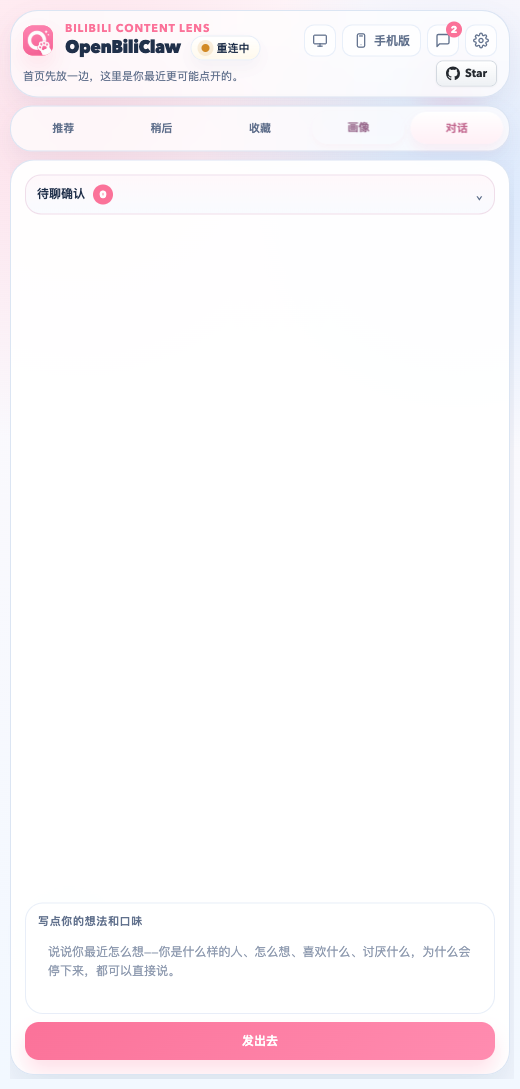
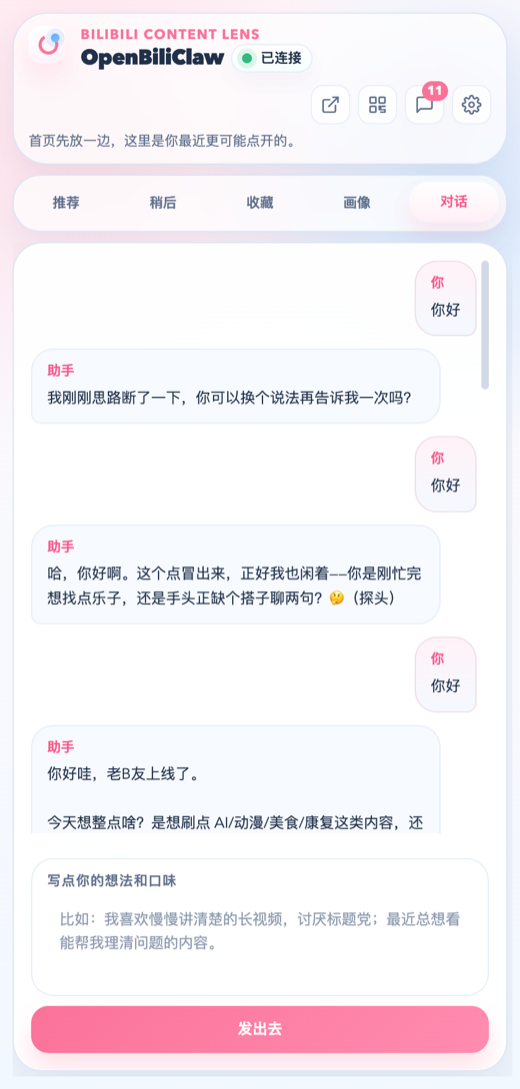
docs: restore real product screenshots

diff --git a/scripts/capture_chrome_webstore_ui.py b/scripts/capture_chrome_webstore_ui.py
@@ -8,8 +8,12 @@ import tempfile
 from pathlib import Path
 from urllib.parse import urlsplit
 
-from chrome_webstore_demo import DemoServer
 from playwright.sync_api import BrowserContext, Page, Route, sync_playwright
+
+if __package__:
+    from scripts.chrome_webstore_demo import DemoServer
+else:
+    from chrome_webstore_demo import DemoServer
 
 ROOT = Path(__file__).resolve().parents[1]
 EXTENSION_ROOT = ROOT / "extension"
@@ -322,6 +326,11 @@ def _capture_extension(
 
 
 def capture(output_dir: Path, docs_output_dir: Path | None = None) -> list[Path]:
+    if docs_output_dir is not None:
+        raise ValueError(
+            "demo fixture captures must not replace README or GitHub Pages screenshots; "
+            "capture those from a real running OpenBiliClaw profile"
+        )
     output_dir.mkdir(parents=True, exist_ok=True)
     expected_names = set(EXPECTED)
     for stale in output_dir.glob("*.png"):
@@ -352,21 +361,8 @@ def main() -> None:
         type=Path,
         default=ROOT / "docs/images/chrome-web-store/source",
     )
-    parser.add_argument(
-        "--refresh-docs",
-        action="store_true",
-        help="also refresh README and documentation screenshots under docs/images",
-    )
-    parser.add_argument(
-        "--docs-output-dir",
-        type=Path,
-        default=ROOT / "docs/images",
-    )
     args = parser.parse_args()
-    capture(
-        args.output_dir.resolve(),
-        args.docs_output_dir.resolve() if args.refresh_docs else None,
-    )
+    capture(args.output_dir.resolve())
 
 
 if __name__ == "__main__":

diff --git a/tests/test_chrome_webstore_demo.py b/tests/test_chrome_webstore_demo.py
@@ -2,12 +2,21 @@ from pathlib import Path
 from urllib.parse import quote, urlsplit
 from urllib.request import urlopen
 
+import pytest
 from PIL import Image
+from scripts.capture_chrome_webstore_ui import capture
 from scripts.chrome_webstore_demo import (
     DEMO_COVER_HOST,
     DemoServer,
     demo_payload,
 )
+
+
+def test_demo_capture_cannot_overwrite_real_documentation_screenshots(
+    tmp_path: Path,
+) -> None:
+    with pytest.raises(ValueError, match="must not replace README or GitHub Pages screenshots"):
+        capture(tmp_path / "store", tmp_path / "docs")
 
 
 def test_demo_recommendations_cover_multiple_platforms_without_private_data() -> None:

diff --git a/docs/changelog.md b/docs/changelog.md
@@ -6,6 +6,7 @@
 
 ## 未发布：连接与 HTTPS 部署（2026-08-01）
 
+- **README 与 GitHub Pages 首页恢复真实使用截图**：推荐、反馈、画像、对话、桌面端、移动端及首屏 Hero 全部换回真实运行记录，不再展示 Chrome Web Store 演示夹具生成的虚构内容；演示素材抓取脚本同时移除 `--refresh-docs` 入口，并拒绝把 demo capture 写入 `docs/images/`，避免再次覆盖真实截图。
 - **对话 turn 绑定安全性收口**：三端把卡片/疑惑作为 durable turn，通过 `reply_to_turn_id` 只声明目标；服务端在 user INSERT 前冻结 canonical context、digest 和 ordinary/detached mode，统一贯穿 prompt、event、学习与结算，A→B replacement 只会安全 stale-drop。新增只读 context preview、opaque evidence 过滤、独立长列表滚动、reply quote 与失败草稿保留；恢复长历史时首次进入会落到最新消息，后续实时刷新仍保留阅读位置。真实三端 E2E 补齐结算态收尾：卡片已确认/修正/拒绝/稍后时会静默清除旧 context，已知服务端错误优先显示中文；移动端固定回顶按钮按 360px 窄屏重新留距，不再与发送按钮相交。
 - **修复 GitHub Star 数量请求偶发 403**：桌面 Web 和扩展不再从浏览器匿名直连 GitHub REST API，统一改走公开同源 `GET /api/project-stats`；后端持久化 12 小时缓存、使用 ETag 条件请求，并在 403 / 429、断网或 GitHub 异常时按响应头退避、返回旧缓存或无数量的本地 200。GitHub Pages 静态官网没有可用的同源后端，因此保留 Star CTA、停止动态请求数量；所有浏览器入口都不再产生 GitHub 失败资源日志，点击仓库行为保持不变。
 - **桌面惊喜推荐把“× / 看过了，不再推荐”移到卡片右上角**：关闭动作不再夹在喜欢、不感兴趣、稍后看和收藏之间，避免被误认成同级反馈或误触；按钮保留原有永久已读语义、可见键盘焦点与禁用态，窄屏触控区域不小于 44×44。

diff --git a/docs/chrome-webstore-listing.md b/docs/chrome-webstore-listing.md
@@ -94,6 +94,9 @@ PYTHONPATH=src .venv/bin/python scripts/capture_chrome_webstore_ui.py \
 .venv/bin/python scripts/build_chrome_webstore_assets.py
 ```
 
+该脚本使用脱敏的演示夹具，只用于 Chrome Web Store 素材。README 与 GitHub Pages
+首页引用的 `docs/images/` 截图必须来自真实运行中的 OpenBiliClaw，不得用该脚本覆盖。
+
 `build_chrome_webstore_demo_covers.py` 会确定性生成 8 张 640×360 本地插画封面，分别供七条推荐和一个惊喜推荐使用；它们不是任何平台或创作者的真实媒体。捕获脚本只连接临时 `127.0.0.1` 脱敏演示服务，封面也经真实 UI 的本机 `/api/image-proxy` 链路加载，并拦截所有非本机请求；不得用真实 `config.toml`、数据库、Cookie、账号名或画像文本生成商店素材。
 
 ## Metadata API bridge
